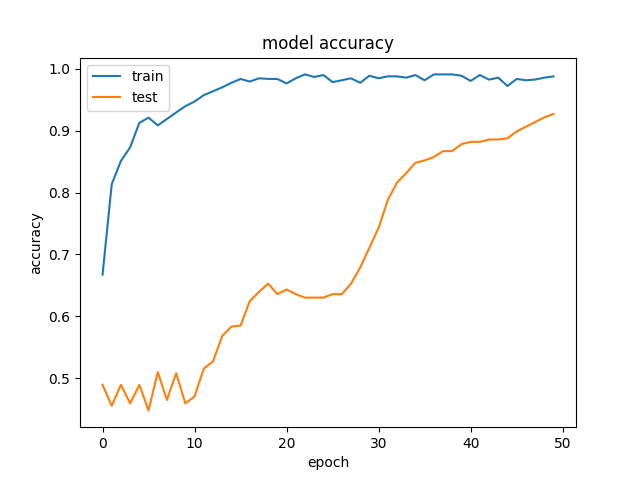
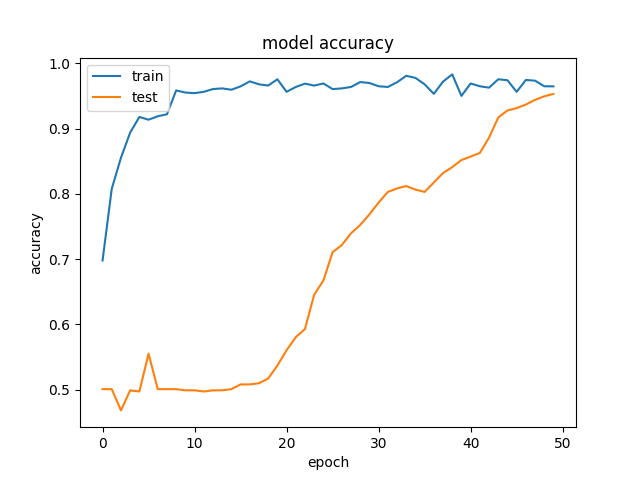
xception added, resnet to be updated

diff --git a/kmeans_data_augm_freezed_xception.py b/kmeans_data_augm_freezed_xception.py
@@ -114,43 +114,44 @@ print(f'Y_train:', Y_train.shape)
 print(f'Y_val:', Y_val.shape)
 
 
-"""# **VGG16**"""
+"""#**Xception**"""
 EPOCHS = 50
 
-def resnet50():
+def xception():
     input_shape = (IMAGE_SIZE, IMAGE_SIZE, 3)
 
-    from tensorflow.keras.applications.resnet50 import ResNet50
-    tmodel_base = ResNet50(input_shape=input_shape,
-                           include_top=False,
-                           weights='imagenet')
+    tmodel_base = Xception(input_shape = input_shape, 
+                                    include_top = False, 
+                                    weights = 'imagenet')
     for layer in tmodel_base.layers:
-        layer.trainable = True
+        layer.trainable = False
 
-    last = tmodel_base.output
+    #Getting desired layer output
+    # Modification of pretrained model
+    last_layer = tmodel_base.get_layer('block14_sepconv2_act')
+    last_output = last_layer.output
 
-    x = Conv2D(1024, (2, 2), strides=(1, 1))(last)
+    x = MaxPooling2D(strides=(2,2))(last_output)
     x = Flatten()(x)
     x = Dense(512, activation='relu')(x)
-    x = Dropout(rate=0.15)(x)
-    x = Dense(256, activation='relu')(x)
-    x = Dropout(rate=0.25)(x)
+    x = Dropout(0.15)(x)
+    x = Dense(64, activation='relu')(x)
+    x = Dropout(0.25)(x)
     x = Dense(2, activation='softmax')(x)
-
-    # Compiling model
-    model = Model(inputs=tmodel_base.input, outputs=x)
+    #Compiling model
+    model = Model(inputs = tmodel_base.input, outputs = x, name = 'Our_Xception')
     model.summary()
 
-    opt1 = Adam(lr=1e-4, beta_1=0.9, beta_2=0.999)
-    resnet_checkpoint = ModelCheckpoint("resnetbest.h5", monitor='val_accuracy', verbose=1,
-                                        save_best_only=True, mode='auto', period=1)
+    opt1 = Adam(lr=1e-5, beta_1=0.9, beta_2=0.999)
+    xception_checkpoint = ModelCheckpoint("xception_freezed.h5", monitor='val_accuracy', verbose=1,
+        save_best_only=True, mode='auto', period=1)
 
-    model.compile(optimizer=opt1, loss='categorical_crossentropy', metrics=['accuracy'])
+    model.compile(optimizer = opt1 , loss = 'categorical_crossentropy', metrics = ['accuracy'])
 
     return model
 
 
-model = resnet50()
+model = xception()
 
 # reduce learning rate and configure early stop
 reduce_learning_rate = ReduceLROnPlateau(monitor='val_loss',
@@ -164,7 +165,7 @@ early_stop = tf.keras.callbacks.EarlyStopping(
     monitor='val_loss', min_delta=0, patience=5, verbose=0, mode='auto',
     baseline=None, restore_best_weights=True
 )
-checkpoint = ModelCheckpoint('kmeans_data_augm_unfreezed_resnet50.h5', verbose=1, save_best_only=True)
+checkpoint = ModelCheckpoint('kmeans_data_augm_freezed_xception.h5', verbose=1, save_best_only=True)
 # Generates batches of image data with data augmentation
 datagen = ImageDataGenerator(rotation_range=20,  # Degree range for random rotations
                              width_shift_range=0.2,  # Range for random horizontal shifts
@@ -180,6 +181,7 @@ hist = model.fit_generator(datagen.flow(X_train, Y_train, batch_size=32),
                            verbose=1,
                            callbacks=[reduce_learning_rate, checkpoint],
                            validation_data=(X_val, Y_val))
+
 
 final_loss, final_accuracy = model.evaluate(X_val, Y_val)
 print('Final Loss: {}, Final Accuracy: {}'.format(final_loss, final_accuracy))
@@ -231,7 +233,7 @@ plt.legend(loc = 4)
 plt.show()
 
 # Last Model
-model = load_model('kmeans_data_augm_unfreezed_resnet50.h5')
+model = load_model('kmeans_data_augm_freezed_xception.h5')
 final_loss, final_accuracy = model.evaluate(X_val, Y_val)
 print('Final Loss: {}, Final Accuracy: {}'.format(final_loss, final_accuracy))
 print('Precision:', precision_recall_fscore_support(Y_true, Y_pred, average='weighted')[0])

diff --git a/kmeans_data_augm_unfreezed_resnet50.py b/kmeans_data_augm_unfreezed_resnet50.py
@@ -152,6 +152,34 @@ def resnet50():
 
 model = resnet50()
 
+# reduce learning rate and configure early stop
+reduce_learning_rate = ReduceLROnPlateau(monitor='val_loss',
+                                         factor=0.1,
+                                         patience=5,
+                                         cooldown=2,
+                                         min_lr=1e-8,
+                                         verbose=1)
+
+early_stop = tf.keras.callbacks.EarlyStopping(
+    monitor='val_loss', min_delta=0, patience=5, verbose=0, mode='auto',
+    baseline=None, restore_best_weights=True
+)
+checkpoint = ModelCheckpoint('kmeans_data_augm_unfreezed_resnet50.h5', verbose=1, save_best_only=True)
+# Generates batches of image data with data augmentation
+datagen = ImageDataGenerator(rotation_range=20,  # Degree range for random rotations
+                             width_shift_range=0.2,  # Range for random horizontal shifts
+                             height_shift_range=0.2,  # Range for random vertical shifts
+                             horizontal_flip=True)  # Randomly flip inputs horizontally
+
+datagen.fit(X_train)
+
+# Fits the model on batches with real-time data augmentation
+hist = model.fit_generator(datagen.flow(X_train, Y_train, batch_size=32),
+                           steps_per_epoch=X_train.shape[0] // BATCH_SIZE,
+                           epochs=EPOCHS,
+                           verbose=1,
+                           callbacks=[reduce_learning_rate, checkpoint],
+                           validation_data=(X_val, Y_val))
 
 final_loss, final_accuracy = model.evaluate(X_val, Y_val)
 print('Final Loss: {}, Final Accuracy: {}'.format(final_loss, final_accuracy))

diff --git a/kmeans_data_augm_unfreezed_xception.py b/kmeans_data_augm_unfreezed_xception.py
@@ -153,6 +153,35 @@ def xception():
 
 model = xception()
 
+# reduce learning rate and configure early stop
+reduce_learning_rate = ReduceLROnPlateau(monitor='val_loss',
+                                         factor=0.1,
+                                         patience=5,
+                                         cooldown=2,
+                                         min_lr=1e-8,
+                                         verbose=1)
+
+early_stop = tf.keras.callbacks.EarlyStopping(
+    monitor='val_loss', min_delta=0, patience=5, verbose=0, mode='auto',
+    baseline=None, restore_best_weights=True
+)
+checkpoint = ModelCheckpoint('kmeans_data_augm_freezed_resnet50.h5', verbose=1, save_best_only=True)
+# Generates batches of image data with data augmentation
+datagen = ImageDataGenerator(rotation_range=20,  # Degree range for random rotations
+                             width_shift_range=0.2,  # Range for random horizontal shifts
+                             height_shift_range=0.2,  # Range for random vertical shifts
+                             horizontal_flip=True)  # Randomly flip inputs horizontally
+
+datagen.fit(X_train)
+
+# Fits the model on batches with real-time data augmentation
+hist = model.fit_generator(datagen.flow(X_train, Y_train, batch_size=32),
+                           steps_per_epoch=X_train.shape[0] // BATCH_SIZE,
+                           epochs=EPOCHS,
+                           verbose=1,
+                           callbacks=[reduce_learning_rate, checkpoint],
+                           validation_data=(X_val, Y_val))
+
 
 final_loss, final_accuracy = model.evaluate(X_val, Y_val)
 print('Final Loss: {}, Final Accuracy: {}'.format(final_loss, final_accuracy))
